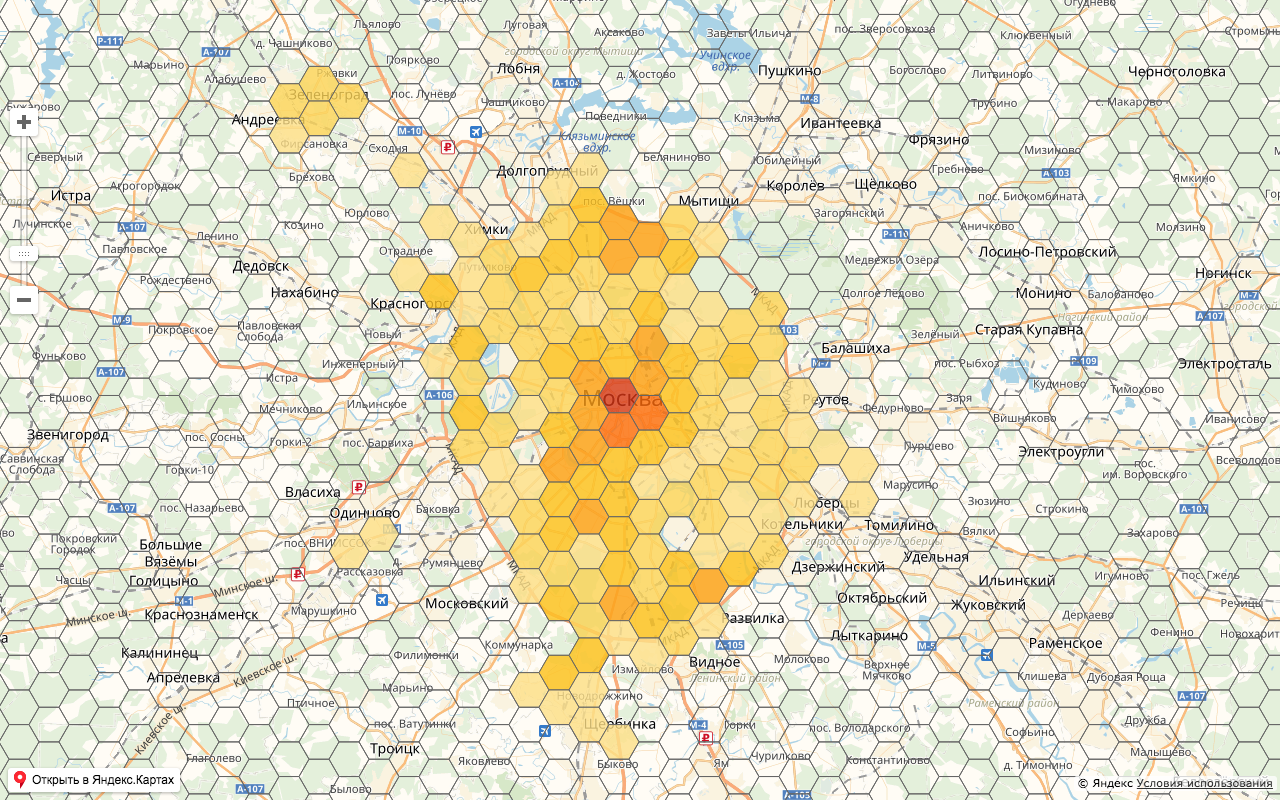
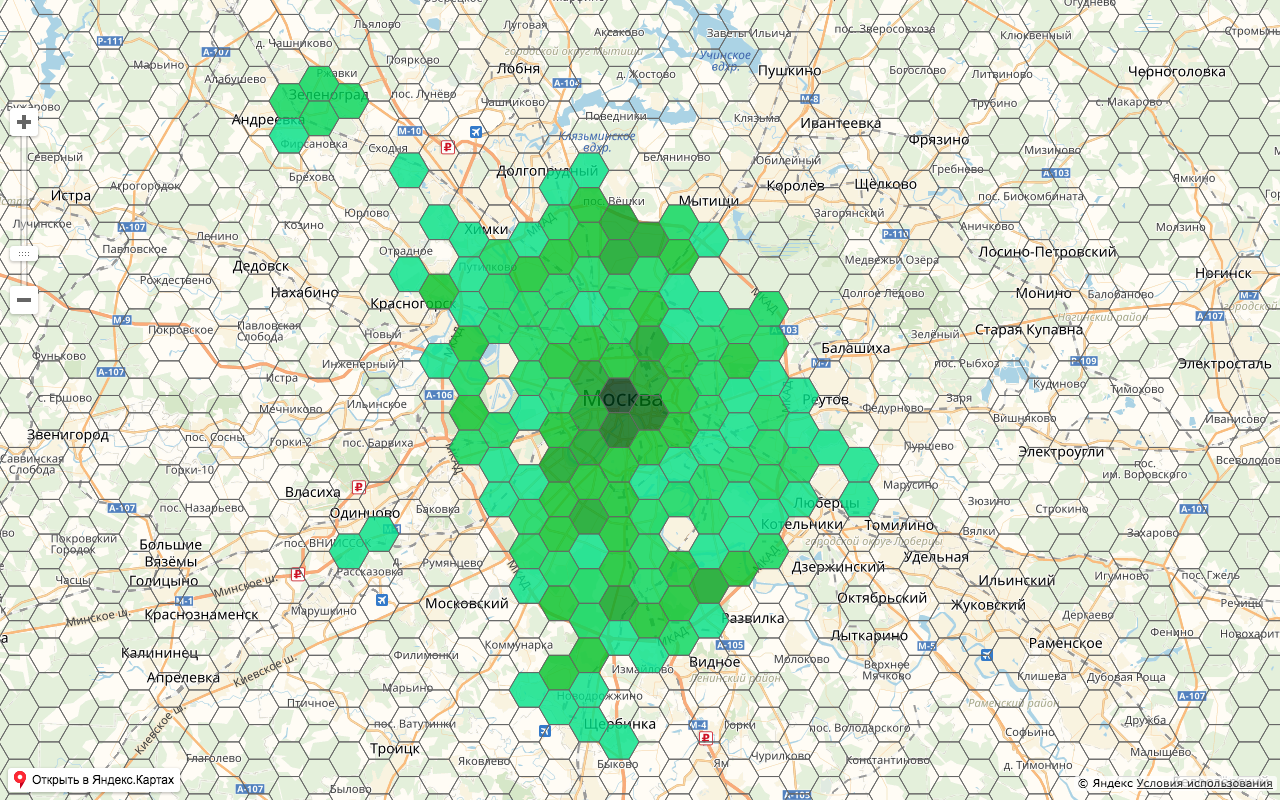
edit after progon

Changed region(s): [[0.2812, 0.1875, 0.6875, 0.9688], [0.1875, 0.0625, 0.2812, 0.1875], [0.25, 0.625, 0.3125, 0.7188]]

diff --git a/src/presentation/index.html b/src/presentation/index.html
@@ -88,6 +88,7 @@
 
 	<section class="slide">
         <h2>Задача</h2>
+        <p>Сделать два модуля API Яндекс.Карт для визуализации:</p>
         <ul>
             <li><strong>Региональная инфографика</strong></li>
             <li><strong>Cетчатая карта</li>
@@ -104,6 +105,7 @@
             <li><strong>Polygonmap</strong> — работает с любыми полигонами.</li>
             <li><strong>Regionmap</strong> — работает с модулем Регионы API Яндекс.Карт.</li>
             <li><strong>Gridmap</strong> — генерирует сетку.</li>
+            <li><strong>GridmapLayer</strong> — генерирует сетку на canvas-е.</li>
         </ul>
     </section>
 
@@ -126,21 +128,64 @@
     </section>
 
 	<section class="slide">
+        <figure>
+            <img class="cover" src="/talks/pictures/pres2-example-4.png" alt="GridmapLayer">
+        </figure>
+    </section>
+
+	<section class="slide">
         <h2>Фичи</h2>
         <ul>
             <li>Расчет сетки (Gridmap и GridmapLayer)</li>
             <li>Расчет вхождения точки в полигон</li>
             <li>Расчет палитры</li>
-            <li>Работа с данными (фильтрация, стилизация)</li>
-            <li>Отрисовка объектов на карте</li>
             <li>Создание легенды</li>
+            <li>Фильтрация</li>
+            <li>Стилизация</li>
             <li>Интерактивность</li>
+            <li>Создание балуна</li>
         </ul>
     </section>
 
     <section class="slide">
         <figure>
-            <img class="cover" src="/talks/pictures/pres2-gridmap-layer.gif" alt="GridmapLayer">
+            <img class="cover" src="/talks/pictures/pres2-feature-1.png" alt="Расчет сетки">
+        </figure>
+    </section>
+
+    <section class="slide">
+        <figure>
+            <img class="cover" src="/talks/pictures/pres2-feature-2.png" alt="Расчет вхождения точки в полигон">
+        </figure>
+    </section>
+
+    <section class="slide">
+        <figure>
+            <img class="cover" src="/talks/pictures/pres2-feature-3.png" alt="Расчет палитры">
+        </figure>
+    </section>
+
+    <section class="slide">
+        <figure>
+            <img class="cover" src="/talks/pictures/pres2-feature-4.png" alt="Создание легенды">
+        </figure>
+    </section>
+
+    <section class="slide">
+        <figure>
+            <img class="cover" src="/talks/pictures/pres2-feature-5.png" alt="Фильтрация">
+        </figure>
+    </section>
+
+    <section class="slide">
+        <figure>
+            <img class="cover" src="/talks/pictures/pres2-feature-6.png" alt="Стилизация">
+        </figure>
+    </section>
+
+    <section class="slide">
+        <figure>
+            <img class="cover" src="/talks/pictures/pres2-feature-7.gif" alt="Интерактивность">
         </figure>
     </section>
 
@@ -263,7 +308,7 @@
     </section>
     <section class="slide">
         <h2>О данных</h2>
-        
+
         <h3 style="text-align: center"><a class="b-link wiki-ref_js_inited" href="http://geojson.org" target="_blank" title="Внешняя ссылка (откроется в новом окне)">GeoJSON</a></h3>
         <div style="margin: auto; max-width: 350px;"><img src="/talks/pictures/geojsonicon.png" alt=""></div>
     </section>
@@ -484,8 +529,8 @@
                     height="320" border="0" title="QR код">
             </a>
             <h6>Gridmap</h6>
-        </div> 
-        
+        </div>
+
         <div style="display: inline-block; vertical-align: middle; width: 49%; text-align: center">
             <a style="width: 100%;" href="http://qrcoder.ru" target="_blank">
                 <img src="http://qrcoder.ru/code/?https%3A%2F%2Fyandex-shri-fx-team.github.io%2Fymaps-polygonmap%2Fmain%2F&6&0" width="320"
@@ -494,7 +539,7 @@
             <h6>Polygonmap</h6>
         </div>
     </section>
-    
+
     <section class="slide slide-cover">
         <h2>Спасибо</h2>
         <div style="position: absolute; bottom: 50px; left: 50px; width: 100%; line-height: 30px">
